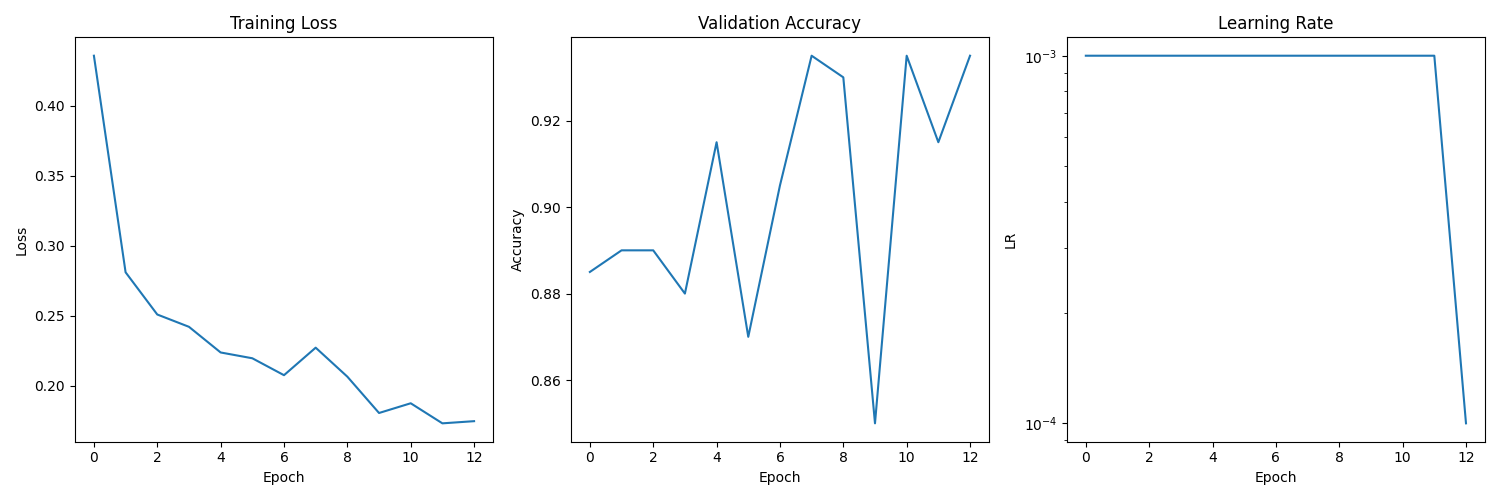
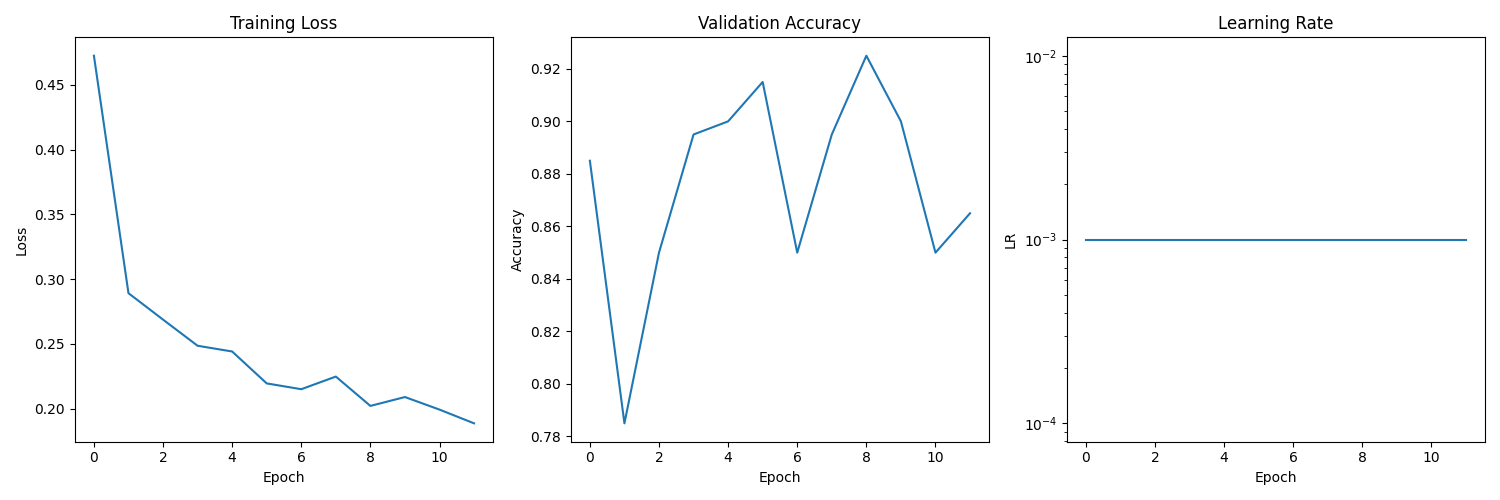
[Classification Man Women] Update Train

diff --git a/classification_man_women/train.py b/classification_man_women/train.py
@@ -43,6 +43,8 @@ def prepare_data():
         transforms.RandomRotation(15),
         transforms.ColorJitter(brightness=0.2, contrast=0.2),
         transforms.ToTensor(),
+        transforms.RandomAffine(degrees=10, translate=(0.1, 0.1)),
+        transforms.RandomPerspective(distortion_scale=0.2),
         transforms.Normalize([0.485, 0.456, 0.406], [0.229, 0.224, 0.225])
     ])
 
